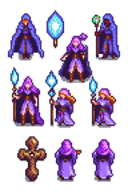
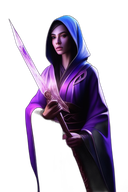
fix: memory_weaver 스프라이트 시트→단일 캐릭터 재생성 + 아틀라스 캐시 강제 제거

diff --git a/client/src/scenes/BattleScene.ts b/client/src/scenes/BattleScene.ts
@@ -209,6 +209,10 @@ export class BattleScene extends Phaser.Scene {
 
   init(data: BattleSceneData): void {
     this.phase = 'intro';
+    // 이전 씬 아틀라스 텍스처 제거 (스프라이트 시트 충돌 방지)
+    ['characters', 'effects', 'ui'].forEach(k => {
+      if (this.textures.exists(k)) this.textures.remove(k);
+    });
     this.allySprites = [];
     this.enemySprites = [];
     this.allSprites = [];